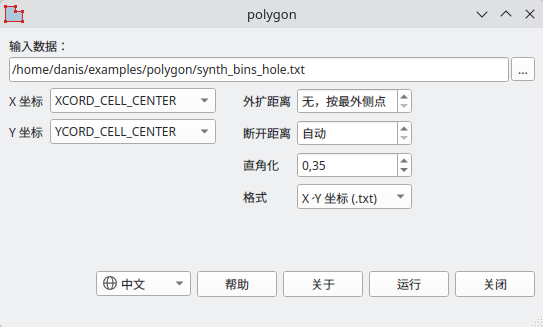
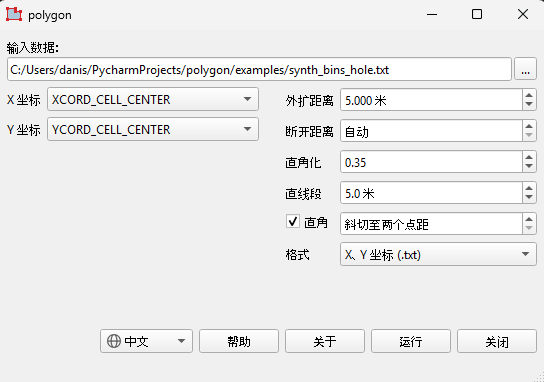
polygon 2.9.0: версия, история, снимки окна

diff --git a/docs/polygon.en.md b/docs/polygon.en.md
@@ -33,7 +33,7 @@ CentOS 7, RHEL, Rocky and Alma 8 and 9, Ubuntu 22.04, Debian 12, Astra Linux -
 there is the "Linux (older systems)" build: it is built with Qt5 and runs on any
 system with glibc 2.17 or newer ([details](index.md#run)).
 
-The current version is 2.8.0. To try the program, you can download synthetic bin
+The current version is 2.9.0. To try the program, you can download synthetic bin
 exports; the illustrations below are made from them:
 
 - [synth_bins_regular.txt](examples/synth_bins_regular.txt) - an area with a
@@ -97,6 +97,7 @@ polygons; their number is also given in the summary.
 
 | Version | What's new |
 |---|---|
+| 2.9.0 | Contour straightening: 3-20 times fewer vertices - straight segments and right angles along the survey axes, areas separately; for sources and receivers on a lattice the contour follows the lines, not bins, and the gap no longer breaks lines |
 | 2.8.0 | The result picture is drawn without matplotlib: the program file is almost half the size and the picture is faster; wheel zoom, mouse pan, saving to PNG, JPG, PDF and SVG |
 | 2.7.0 | Chinese interface (Simplified): the language follows the system and can be switched in the window |
 | 2.6.0 | English interface: the language follows the system and can be switched in the window |
